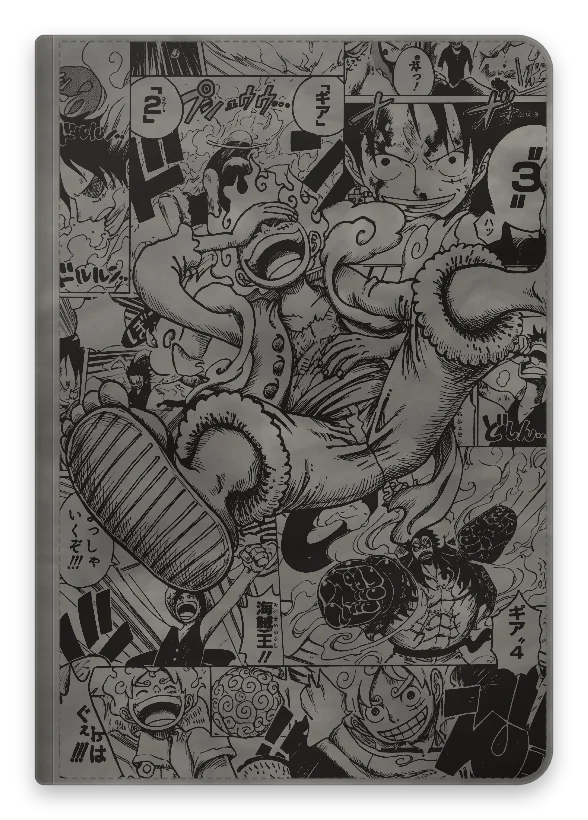
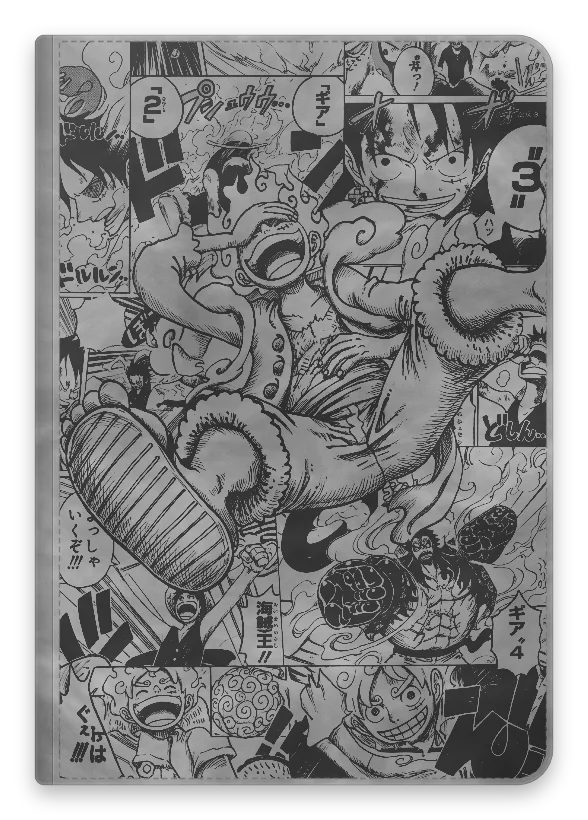
adjusted the greyness and experimented with themes but ended up on the same blank white theme

diff --git a/public/js/catalog.js b/public/js/catalog.js
@@ -14,7 +14,8 @@
     { id: '#b82e40', name: 'Red', hex: '#b82e40' },
     { id: '#eeeeec', name: 'White', hex: '#eeeeec', depth: 700 },
     { id: '#2fb8ca', name: 'Turquoise', hex: '#2fb8ca', depth: 300 },
-    { id: '#74716c', name: 'Grey', hex: '#74716c', texture: 'felt', depth: 300 },
+    // Grey keeps its original id (saved designs and carts use it); only the shade changed.
+    { id: '#74716c', name: 'Grey', hex: '#969696', texture: 'felt', depth: 300 },
   ];
   // Every other colour, including custom colours from the colour wheel.
   const DEFAULT_DEPTH = 600;

diff --git a/public/css/style.css b/public/css/style.css
@@ -657,3 +657,9 @@ input.own-discount:disabled { background: var(--surface); color: var(--muted); c
 .admin-order-items li { display: flex; flex-wrap: wrap; align-items: center; gap: 6px 14px; }
 .admin-order-items li .btn { margin-left: auto; }
 .admin-order-total { font-weight: 600; }
+
+/* Small phones: keep all header icons on screen (the SGD label is display-only, so it's hidden). */
+@media (max-width: 480px) {
+  .header-right { gap: 2px; }
+  .header-currency { display: none; }
+}
